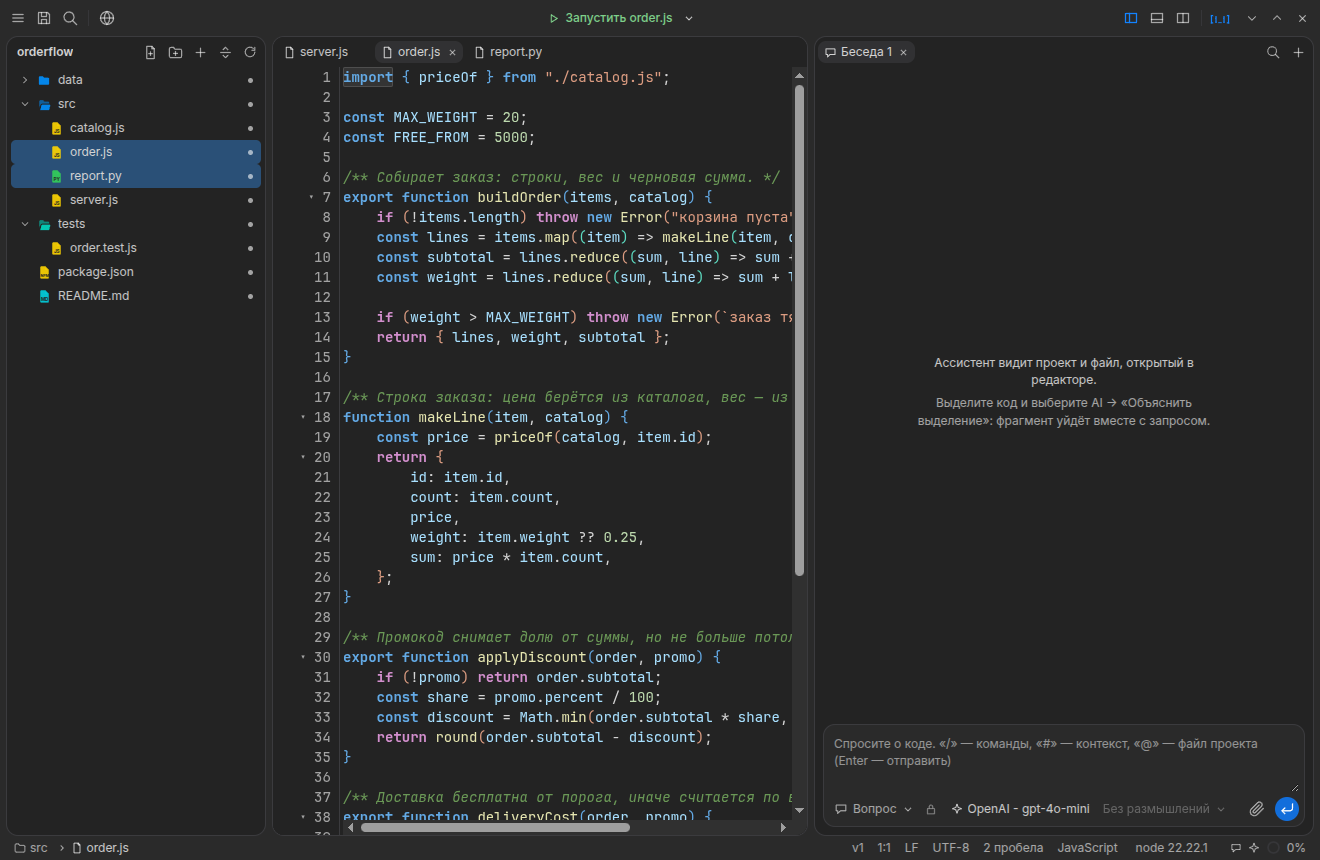
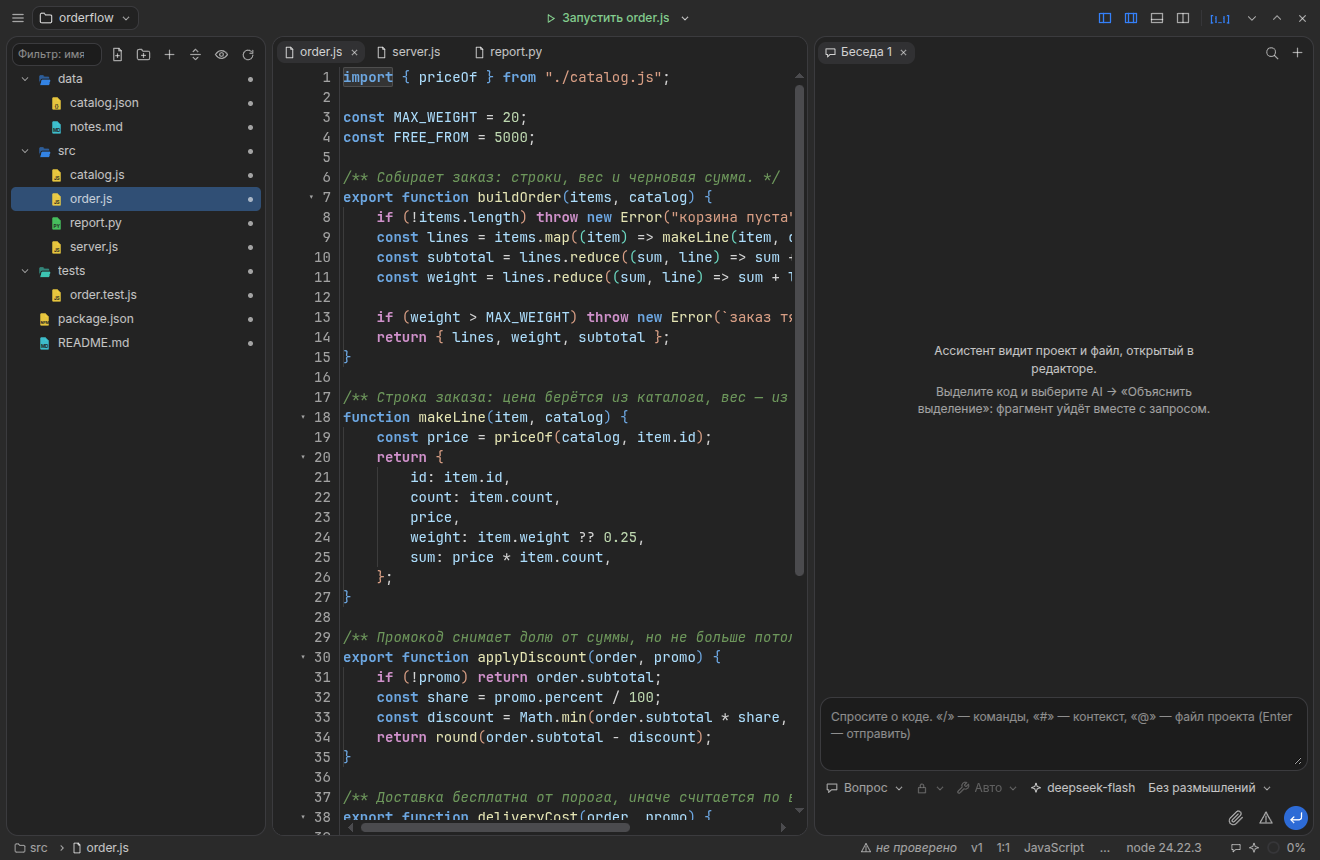
Снимки: клик по картинке открывает её в модальном окне
Галерея «Как это выглядит» уводила на голый PNG — новый таб и потеря
контекста. Теперь снимок открывается поверх страницы, нативным <dialog>:
Esc, ловушка фокуса и возврат фокуса на миниатюру — из коробки.

- lib/site.mjs: ссылка-миниатюра получила data-shot с заголовком и подписью,
  рядом с галереей — сам <dialog> с картинкой и кнопкой закрытия;
- src/site.js: открытие по клику, закрытие по кнопке, по затемнению и по Esc;
  блокировка прокрутки снимается и при отложенном событии close;
- src/style.css: окно на весь экран, снимок вписан в 96vw x 94vh и
  отцентрован, затемнение с blur. Центровка — только у [open]: display в
  базовом правиле перебил бы UA-шный display:none и невидимое окно
  перехватывало бы клики по странице;
- scripts/_shot.cjs: снимки редактора — раскрытые src, tests и data,
  order.js активной вкладкой.

diff --git a/src/site.js b/src/site.js
@@ -288,3 +288,74 @@
     );
     onScroll();
 })();
+
+/* Снимки в модальном окне: картинка в галерее открывается поверх страницы,
+   без ухода на голый PNG. В окне только увеличенный снимок — без подписей
+   и ссылок. Окно — нативный <dialog>, поэтому Esc, ловушка фокуса
+   и возврат фокуса на снимок работают сами. */
+(function () {
+    var modal = document.querySelector("[data-shot-modal]");
+    if (!modal) return;
+
+    var img = modal.querySelector("[data-shot-modal-img]");
+    var opener = null;
+
+    function open(link) {
+        var src = link.getAttribute("href");
+        var preview = link.querySelector("img");
+
+        opener = link;
+        img.src = src;
+        img.alt = (preview && preview.getAttribute("alt")) || "";
+        if (preview && preview.getAttribute("width")) {
+            img.setAttribute("width", preview.getAttribute("width"));
+            img.setAttribute("height", preview.getAttribute("height"));
+        }
+
+        if (typeof modal.showModal === "function") modal.showModal();
+        else modal.setAttribute("open", "");
+        document.documentElement.style.overflow = "hidden";
+    }
+
+    function close() {
+        if (typeof modal.close === "function" && modal.open) {
+            modal.close();
+            /* Событие `close` приходит асинхронно (и не всегда в headless) —
+               снимаем блокировку и возвращаем фокус сразу. Повторный вызов
+               в restore безвреден. */
+            restore();
+            return;
+        }
+        modal.removeAttribute("open");
+        restore();
+    }
+
+    /* Возврат фокуса на снимок и снятие блокировки прокрутки. */
+    function restore() {
+        document.documentElement.style.overflow = "";
+        var back = opener;
+        opener = null;
+        /* Диалог отдаёт фокус сам после закрытия — фокусируем на следующем кадре. */
+        if (back)
+            requestAnimationFrame(function () {
+                back.focus();
+            });
+    }
+
+    document.addEventListener("click", function (event) {
+        var link = event.target.closest("a[data-shot]");
+        if (link) {
+            event.preventDefault();
+            open(link);
+            return;
+        }
+        if (event.target.closest("[data-shot-modal-close]")) close();
+    });
+
+    /* Клик мимо картинки — по затемнению — закрывает окно. */
+    modal.addEventListener("click", function (event) {
+        if (event.target === modal) close();
+    });
+
+    modal.addEventListener("close", restore);
+})();

diff --git a/src/style.css b/src/style.css
@@ -1022,6 +1022,98 @@ kbd {
     font-size: 14.5px;
 }
 
+.shot a[data-shot] {
+    cursor: zoom-in;
+}
+
+/* Модальное окно снимка: только картинка, во весь доступный экран. */
+.shot-modal {
+    padding: 0;
+    color: var(--text);
+    background: none;
+    border: 0;
+    border-radius: var(--radius);
+    /* Закрытый <dialog> скрыт UA-стилем display:none — не переопределяем его
+       в базовом правиле, иначе невидимое окно висит над страницей и съедает клики. */
+}
+
+/* Центровка только у открытого окна: flex на весь экран. */
+.shot-modal[open] {
+    position: fixed;
+    inset: 0;
+    display: flex;
+    align-items: center;
+    justify-content: center;
+    width: 100vw;
+    max-width: 100vw;
+    height: 100vh;
+    max-height: 100vh;
+    margin: 0;
+    padding: 0;
+    overflow: hidden;
+    animation: shot-modal-in 160ms ease-out;
+}
+
+.shot-modal::backdrop {
+    background: rgba(8, 10, 14, 0.78);
+    backdrop-filter: blur(3px);
+}
+
+@keyframes shot-modal-in {
+    from {
+        opacity: 0;
+        transform: scale(0.995);
+    }
+}
+
+.shot-modal__img {
+    display: block;
+    /* width/height сбрасывают интринсик миниатюры, скопированный скриптом,
+       иначе снимок остаётся мелким и не центрируется. */
+    width: auto;
+    height: auto;
+    max-width: 96vw;
+    max-height: 94vh;
+    margin: auto;
+    border-radius: var(--radius_sm);
+    box-shadow: 0 24px 80px rgba(0, 0, 0, 0.45);
+}
+
+.shot-modal__close {
+    position: absolute;
+    top: 8px;
+    right: 8px;
+    display: grid;
+    place-items: center;
+    width: 32px;
+    height: 32px;
+    padding: 0;
+    color: var(--text_2);
+    background: rgba(8, 10, 14, 0.66);
+    border: 1px solid var(--border);
+    border-radius: var(--radius_sm);
+    cursor: pointer;
+}
+
+.shot-modal__close:hover {
+    color: var(--text);
+}
+
+.shot-modal__close svg {
+    width: 16px;
+    height: 16px;
+    stroke: currentColor;
+    stroke-width: 2;
+    stroke-linecap: round;
+    fill: none;
+}
+
+@media (prefers-reduced-motion: reduce) {
+    .shot-modal[open] {
+        animation: none;
+    }
+}
+
 /* ── скачивание ──────────────────────────────────────────────────────────── */
 
 /* Карточка системы и строки-файлы в ней. Нажимается строка, а не вся карточка:
